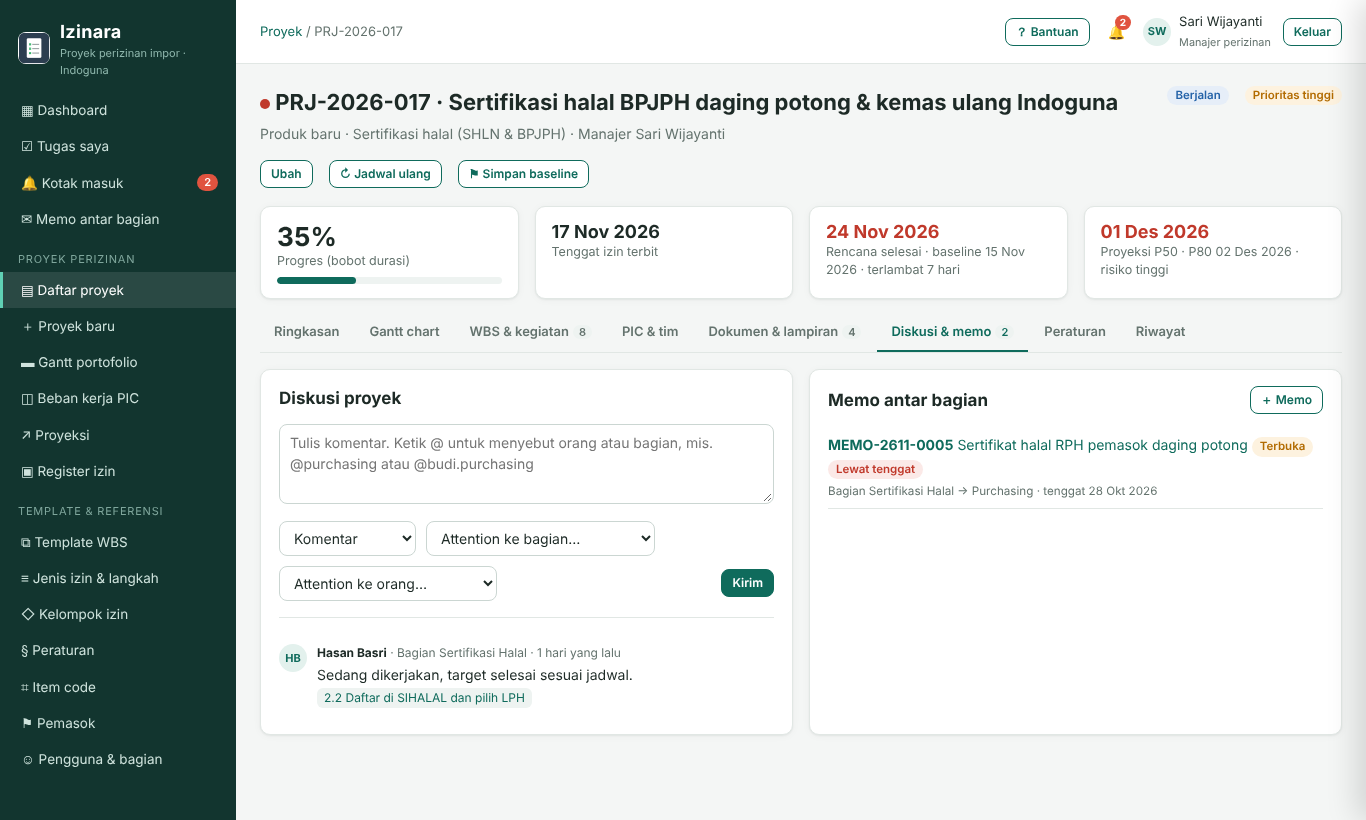
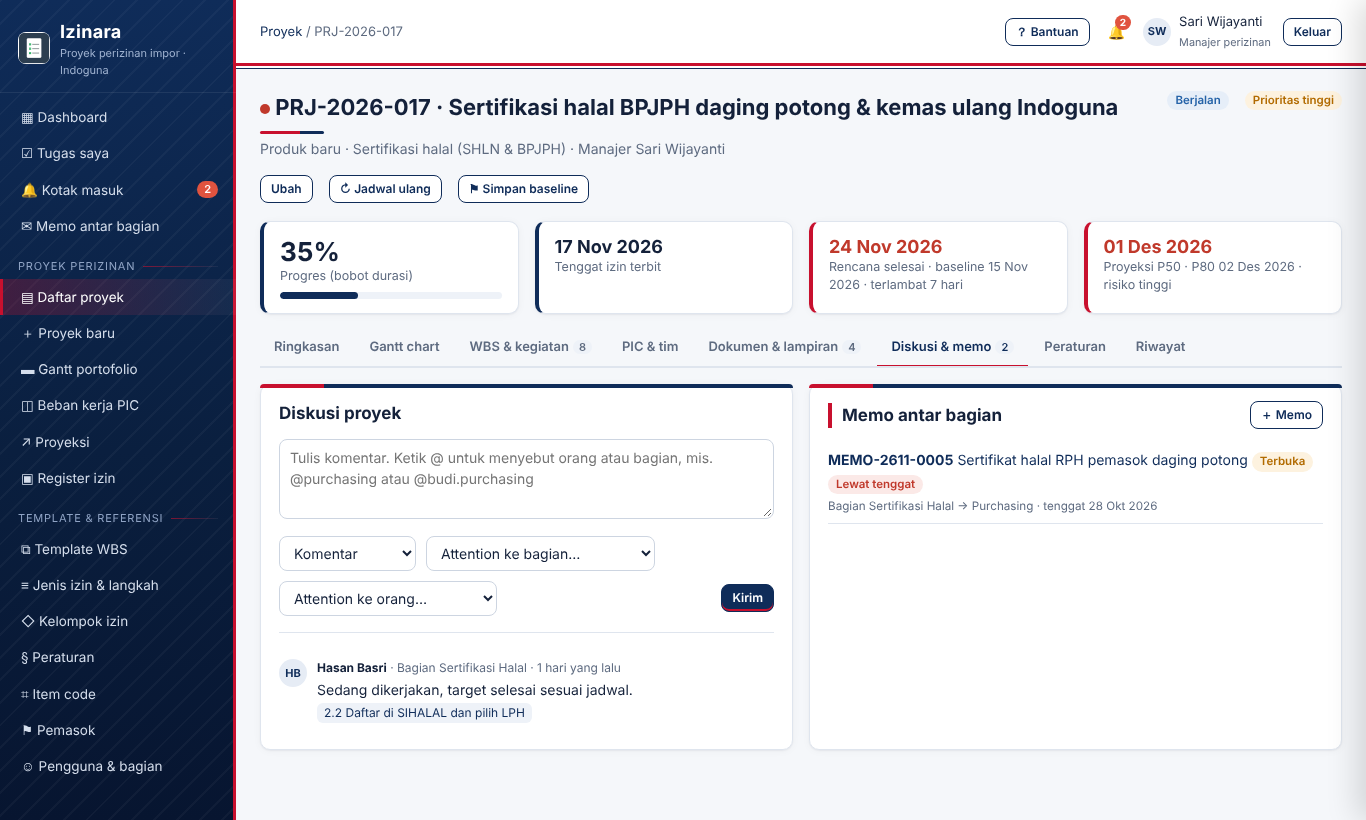
Tema warna Indoguna: biru tua dan merah dengan aksen garis
Sidebar dan header bergaris diagonal, garis bertumpuk merah-putih-navy,
kartu dan judul beraksen merah, login/landing dengan pita merah diagonal,
warna grafik dan Gantt disesuaikan, tangkapan layar Bantuan diperbarui.

Claude-Session: https://claude.ai/code/session_01B7oP2D8Vt9nwedVL3RfTSi

diff --git a/public/css/izinara.css b/public/css/izinara.css
@@ -1,10 +1,10 @@
 /* Izinara – gaya antarmuka (tanpa build step) */
 :root{
-  --bg:#f4f6f5; --panel:#fff; --ink:#1d2a26; --muted:#64736e; --line:#e1e7e4; --soft:#eef3f1;
-  --brand:#0f6b5c; --brand-2:#0b5247; --brand-soft:#e3f1ed; --accent:#d98e04;
+  --bg:#f5f7fa; --panel:#fff; --ink:#14213a; --muted:#5e6b80; --line:#dfe5ee; --soft:#eef2f8;
+  --brand:#0f2c59; --brand-2:#0a1f3f; --brand-soft:#e6ecf5; --accent:#c8102e;
   --ok:#1f8a4c; --ok-soft:#e5f5ec; --info:#2563a8; --info-soft:#e6eef8; --warn:#b26b00; --warn-soft:#fdf2df;
-  --bad:#c0392b; --bad-soft:#fbe9e7; --crit:#c0392b; --side:#12352f; --side-ink:#cfe3dd;
-  --radius:10px; --shadow:0 1px 2px rgba(16,40,34,.06),0 1px 8px rgba(16,40,34,.04);
+  --bad:#c0392b; --bad-soft:#fbe9e7; --crit:#c0392b; --side:#0a1f3f; --side-ink:#d5deec;
+  --radius:10px; --shadow:0 1px 2px rgba(10,25,55,.06),0 1px 8px rgba(10,25,55,.04);
 }
 *{box-sizing:border-box}
 html,body{margin:0;padding:0}
@@ -23,11 +23,11 @@ hr{border:0;border-top:1px solid var(--line);margin:16px 0}
 .side{width:236px;background:var(--side);color:var(--side-ink);flex-shrink:0;position:sticky;top:0;height:100vh;overflow-y:auto;padding-bottom:20px}
 .side .brand{display:flex;align-items:center;gap:10px;padding:18px 18px 14px;color:#fff;font-weight:700;font-size:18px;letter-spacing:.3px}
 .side .brand img{width:32px;height:32px;border-radius:8px;background:#fff}
-.side .brand small{display:block;color:#8fb7ad;font-weight:400;font-size:11px;letter-spacing:0}
+.side .brand small{display:block;color:#9fb2d0;font-weight:400;font-size:11px;letter-spacing:0}
 .side nav a{display:flex;align-items:center;gap:10px;padding:8px 18px;color:var(--side-ink);font-size:13.5px;border-left:3px solid transparent}
 .side nav a:hover{background:rgba(255,255,255,.06);text-decoration:none}
-.side nav a.on{background:rgba(255,255,255,.1);color:#fff;border-left-color:#5fd0b4}
-.side nav .grp{padding:14px 18px 4px;color:#7fa69c;font-size:11px;text-transform:uppercase;letter-spacing:.8px}
+.side nav a.on{background:rgba(255,255,255,.1);color:#fff;border-left-color:#c8102e}
+.side nav .grp{padding:14px 18px 4px;color:#8fa3c4;font-size:11px;text-transform:uppercase;letter-spacing:.8px}
 .side nav .cnt{margin-left:auto;background:#e0533f;color:#fff;border-radius:10px;padding:0 7px;font-size:11px;font-weight:600}
 .main{flex:1;min-width:0}
 .top{display:flex;align-items:center;gap:12px;padding:12px 24px;background:var(--panel);border-bottom:1px solid var(--line);position:sticky;top:0;z-index:20}
@@ -67,9 +67,9 @@ hr{border:0;border-top:1px solid var(--line);margin:16px 0}
 .tbl{width:100%;border-collapse:collapse;font-size:13px}
 .tbl th{text-align:left;font-weight:600;color:var(--muted);font-size:12px;text-transform:uppercase;letter-spacing:.3px;padding:8px 10px;border-bottom:1px solid var(--line);white-space:nowrap;background:#fafcfb}
 .tbl td{padding:8px 10px;border-bottom:1px solid var(--line);vertical-align:top}
-.tbl tr:hover td{background:#fafdfc}
+.tbl tr:hover td{background:#fafbfd}
 .tbl .num{text-align:right;font-variant-numeric:tabular-nums}
-.tbl tr.pkg td{background:#f3f8f6;font-weight:600}
+.tbl tr.pkg td{background:#f3f6fb;font-weight:600}
 .tbl tr.ms td{background:#fffaf0}
 .tbl tr.crit td:first-child{box-shadow:inset 3px 0 0 var(--crit)}
 .scroll-x{overflow-x:auto}
@@ -91,12 +91,12 @@ hr{border:0;border-top:1px solid var(--line);margin:16px 0}
 .bar.bad>i{background:var(--bad)} .bar.warn>i{background:#e5a50a}
 
 /* forms */
-label{display:block;font-weight:600;font-size:12.5px;margin:0 0 4px;color:#33443f}
+label{display:block;font-weight:600;font-size:12.5px;margin:0 0 4px;color:#2e3a52}
 .field{margin-bottom:12px}
 input[type=text],input[type=email],input[type=password],input[type=date],input[type=number],input[type=search],input[type=url],select,textarea{
-  width:100%;padding:7px 10px;border:1px solid #cbd6d2;border-radius:8px;font:inherit;background:#fff;color:var(--ink)}
+  width:100%;padding:7px 10px;border:1px solid #cdd5e1;border-radius:8px;font:inherit;background:#fff;color:var(--ink)}
 textarea{min-height:80px;resize:vertical}
-input:focus,select:focus,textarea:focus{outline:2px solid #9fd8c9;border-color:var(--brand)}
+input:focus,select:focus,textarea:focus{outline:2px solid #b8c6e0;border-color:var(--brand)}
 select[multiple]{min-height:110px}
 .btn{display:inline-flex;align-items:center;gap:6px;padding:7px 14px;border-radius:8px;border:1px solid var(--brand);background:var(--brand);color:#fff;font:inherit;font-weight:600;font-size:13px;cursor:pointer;white-space:nowrap}
 .btn:hover{background:var(--brand-2);text-decoration:none}
@@ -146,11 +146,11 @@ select[multiple]{min-height:110px}
 .files{display:flex;flex-direction:column;gap:6px}
 .file{display:flex;align-items:center;gap:10px;padding:7px 10px;border:1px solid var(--line);border-radius:8px;background:#fff}
 .file .ic{width:38px;height:38px;border-radius:7px;display:flex;align-items:center;justify-content:center;font-size:10.5px;font-weight:800;color:#fff;flex-shrink:0}
-.ic.PDF{background:#d6453d}.ic.XLS{background:#1f7a44}.ic.DOC{background:#2b5fb4}.ic.IMG{background:#8a5cc7}.ic.ZIP{background:#7b6a4b}.ic.PPT{background:#d0632b}.ic.FILE,.ic.MSG,.ic.EML,.ic.XML{background:#6b7b77}
+.ic.PDF{background:#d6453d}.ic.XLS{background:#1f7a44}.ic.DOC{background:#2b5fb4}.ic.IMG{background:#8a5cc7}.ic.ZIP{background:#7b6a4b}.ic.PPT{background:#d0632b}.ic.FILE,.ic.MSG,.ic.EML,.ic.XML{background:#66738a}
 .file img.thumb{width:38px;height:38px;object-fit:cover;border-radius:7px}
 .file .nm{flex:1;min-width:0}
 .file .nm a{font-weight:600;word-break:break-all}
-.drop{border:2px dashed #b9cbc5;border-radius:10px;padding:14px;text-align:center;color:var(--muted);background:#fafdfc}
+.drop{border:2px dashed #bcc8da;border-radius:10px;padding:14px;text-align:center;color:var(--muted);background:#fafbfd}
 .drop.over{border-color:var(--brand);background:var(--brand-soft)}
 
 /* documents */
@@ -164,11 +164,11 @@ select[multiple]{min-height:110px}
 .gantt-toolbar{display:flex;gap:6px;align-items:center;margin-bottom:10px;flex-wrap:wrap}
 .legend{display:flex;gap:14px;font-size:12px;color:var(--muted);flex-wrap:wrap}
 .legend i{display:inline-block;width:14px;height:10px;border-radius:3px;margin-right:4px;vertical-align:middle}
-.gantt .bar-wrapper .bar{fill:#9ab9b0}
+.gantt .bar-wrapper .bar{fill:#9fb4d6}
 .gantt .bar-wrapper .bar-progress{fill:var(--brand)}
-.gantt .bar-wrapper.k-package .bar{fill:#41545e}
-.gantt .bar-wrapper.k-package .bar-progress{fill:#1b2a31}
-.gantt .bar-wrapper.k-project .bar{fill:#7aa69a}
+.gantt .bar-wrapper.k-package .bar{fill:#4a5a78}
+.gantt .bar-wrapper.k-package .bar-progress{fill:#0a1f3f}
+.gantt .bar-wrapper.k-project .bar{fill:#8ea3c7}
 .gantt .bar-wrapper.k-project .bar-progress{fill:var(--brand)}
 .gantt .bar-wrapper.k-project.h-merah .bar{fill:#e8a39b}
 .gantt .bar-wrapper.k-project.h-merah .bar-progress{fill:var(--bad)}
@@ -176,22 +176,22 @@ select[multiple]{min-height:110px}
 .gantt .bar-wrapper.k-project.h-kuning .bar-progress{fill:#c88a00}
 .gantt .bar-wrapper.kritis .bar{fill:#f0b3ab}
 .gantt .bar-wrapper.kritis .bar-progress{fill:var(--crit)}
-.gantt .bar-wrapper.s-selesai .bar{fill:#9bd0b1}
-.gantt .bar-wrapper.s-selesai .bar-progress{fill:var(--ok)}
+.gantt .bar-wrapper.s-selesai .bar{fill:#9fb4d6}
+.gantt .bar-wrapper.s-selesai .bar-progress{fill:#6f88b3}
 .gantt .bar-wrapper.s-terhambat .bar{stroke:var(--bad);stroke-width:2}
 .gantt .bar-wrapper.lewat .bar{stroke:#e5a50a;stroke-width:2;stroke-dasharray:4 2}
 .gantt .bar-wrapper.k-milestone .bar{fill:var(--accent);rx:2}
-.gantt .bar-wrapper.k-milestone .bar-progress{fill:#9c6500}
-.gantt .bar-wrapper.k-milestone.s-selesai .bar{fill:var(--ok)}
+.gantt .bar-wrapper.k-milestone .bar-progress{fill:#8a0b1f}
+.gantt .bar-wrapper.k-milestone.s-selesai .bar{fill:var(--navy)}
 .gantt .bar-label{font-size:11.5px}
 .gantt .today-highlight{fill:#fff3d6;opacity:.8}
 .gantt-container .popup-wrapper{min-width:260px}
-.gp{padding:10px 12px;font-size:12.5px;line-height:1.5;color:#1d2a26;background:#fff;border-radius:8px;box-shadow:0 6px 20px rgba(0,0,0,.18)}
+.gp{padding:10px 12px;font-size:12.5px;line-height:1.5;color:#14213a;background:#fff;border-radius:8px;box-shadow:0 6px 20px rgba(0,0,0,.18)}
 .gp b{display:block;font-size:13px;margin-bottom:3px}
 
 /* heatmap */
 .heat td.h{text-align:center;font-variant-numeric:tabular-nums;font-size:12px;border-left:1px solid #fff}
-.h0{background:#f5f7f6;color:#aab}.h1{background:#d8f0e4}.h2{background:#a9dfc2}.h3{background:#ffe3a3}.h4{background:#ffbf85}.h5{background:#f28b7d;color:#fff}
+.h0{background:#f5f7fa;color:#aab}.h1{background:#d8f0e4}.h2{background:#a9dfc2}.h3{background:#ffe3a3}.h4{background:#ffbf85}.h5{background:#f28b7d;color:#fff}
 
 .empty{padding:28px;text-align:center;color:var(--muted)}
 .chart-box{position:relative;height:260px}
@@ -205,7 +205,7 @@ details.box>summary::-webkit-details-marker{display:none}
 details.box>summary:before{content:"▸ ";color:var(--muted)}
 details.box[open]>summary:before{content:"▾ "}
 details.box>div{padding:0 14px 12px}
-.login-wrap{min-height:100vh;display:flex;align-items:center;justify-content:center;background:linear-gradient(135deg,#0f6b5c 0%,#12352f 60%,#0b2622 100%);padding:20px}
+.login-wrap{min-height:100vh;display:flex;align-items:center;justify-content:center;background:linear-gradient(135deg,#0f2c59 0%,#0a1f3f 60%,#071530 100%);padding:20px}
 .login{background:#fff;border-radius:14px;padding:30px 32px;width:100%;max-width:400px;box-shadow:0 20px 60px rgba(0,0,0,.35)}
 .login .brand{display:flex;gap:12px;align-items:center;margin-bottom:18px}
 .login .brand img{width:46px;height:46px;border-radius:10px}
@@ -224,7 +224,7 @@ details.box>div{padding:0 14px 12px}
 .help-btn{font-weight:600}
 .side a.brand{text-decoration:none}
 .help-panel{position:fixed;inset:0;z-index:60;pointer-events:none}
-.help-panel .help-backdrop{position:absolute;inset:0;background:rgba(10,30,26,.35);opacity:0;transition:opacity .2s}
+.help-panel .help-backdrop{position:absolute;inset:0;background:rgba(7,21,48,.35);opacity:0;transition:opacity .2s}
 .help-panel .help-sheet{position:absolute;top:0;right:0;bottom:0;width:min(560px,100%);background:var(--panel);box-shadow:-8px 0 30px rgba(0,0,0,.15);transform:translateX(100%);transition:transform .22s ease;display:flex;flex-direction:column}
 .help-panel.open{pointer-events:auto}
 .help-panel.open .help-backdrop{opacity:1}
@@ -263,17 +263,17 @@ body.pub{background:#fff}
 .pub-top nav{display:flex;gap:16px}.pub-top nav a{color:var(--ink);font-size:14px}
 .pub-wrap{max-width:1180px;margin:0 auto;padding:0 24px}
 body.pub .pub-wrap .page-head{margin-top:24px}
-.hero{background:linear-gradient(135deg,#0f6b5c 0%,#12352f 70%);color:#e9f5f1;padding:56px 24px 64px}
+.hero{background:linear-gradient(135deg,#0f2c59 0%,#0a1f3f 70%);color:#e8eef7;padding:56px 24px 64px}
 .hero-in{max-width:1180px;margin:0 auto;display:grid;grid-template-columns:minmax(0,1fr) minmax(0,1.1fr);gap:40px;align-items:center}
 .hero h1{font-size:36px;line-height:1.2;color:#fff;margin:10px 0 14px}
-.hero p{font-size:16px;color:#cfe3dd}
-.eyebrow{display:inline-block;background:rgba(255,255,255,.12);color:#9fe0cc;border-radius:999px;padding:3px 12px;font-size:12px;font-weight:600;letter-spacing:.4px;text-transform:uppercase}
+.hero p{font-size:16px;color:#d5deec}
+.eyebrow{display:inline-block;background:rgba(255,255,255,.12);color:#ffd2d9;border-radius:999px;padding:3px 12px;font-size:12px;font-weight:600;letter-spacing:.4px;text-transform:uppercase}
 .hero-cta{display:flex;gap:10px;flex-wrap:wrap;margin:22px 0}
 .btn.lg{padding:11px 20px;font-size:15px}
 .hero .btn{background:#fff;color:var(--brand);border-color:#fff}
 .hero .btn.ghost{background:transparent;color:#fff;border-color:rgba(255,255,255,.6)}
 .hero-stats{display:flex;gap:28px;flex-wrap:wrap}
-.hero-stats b{display:block;font-size:26px;color:#fff}.hero-stats span{font-size:12px;color:#9fc7bc}
+.hero-stats b{display:block;font-size:26px;color:#fff}.hero-stats span{font-size:12px;color:#a9bad6}
 .hero-img img{width:100%;border-radius:10px;box-shadow:0 20px 50px rgba(0,0,0,.35);display:block}
 .pub-sec{padding:56px 0}
 .pub-sec.alt{background:var(--bg)}
@@ -291,7 +291,7 @@ body.pub .pub-wrap .page-head{margin-top:24px}
 .feat-row{display:grid;grid-template-columns:minmax(0,.8fr) minmax(0,1.2fr);gap:32px;align-items:center}
 .feat-row:nth-child(even) .feat-txt{order:2}
 .feat-txt h3{font-size:20px;margin:0 0 8px}.feat-txt p{font-size:15px;color:var(--muted);margin:0}
-.feat-img img{width:100%;border:1px solid var(--line);border-radius:10px;box-shadow:0 10px 30px rgba(16,40,34,.12);display:block}
+.feat-img img{width:100%;border:1px solid var(--line);border-radius:10px;box-shadow:0 10px 30px rgba(10,25,55,.12);display:block}
 .reg-explain{margin-bottom:20px}
 .reg-lvl{font-weight:700;color:var(--brand);margin:14px 0 4px;font-size:13px;text-transform:uppercase;letter-spacing:.5px}
 .reg-table .tbl td{vertical-align:top}
@@ -303,3 +303,71 @@ body.pub .pub-wrap .page-head{margin-top:24px}
 .login.install h3{margin:18px 0 6px}
 .checks{list-style:none;padding:0;margin:0;font-size:13px}.checks li{padding:2px 0}.checks .ok{color:var(--ok)}.checks .bad{color:var(--bad)}
 .login .pub-links{text-align:center;margin-top:12px;font-size:13px}
+
+/* =====================================================================
+   Tema Indoguna: biru tua (navy) + merah, dengan aksen garis
+   ===================================================================== */
+:root{
+  --navy:#0f2c59; --navy-2:#0a1f3f; --navy-3:#071530; --red:#c8102e;
+  --stripes:repeating-linear-gradient(135deg,rgba(255,255,255,.035) 0 2px,transparent 2px 16px);
+  --tri:linear-gradient(90deg,var(--red) 0 56px,#fff 56px 60px,var(--navy) 60px);
+}
+/* sidebar: navy bergaris diagonal + garis merah di tepi kanan */
+.side{background:var(--stripes),linear-gradient(180deg,var(--navy) 0%,var(--navy-2) 55%,var(--navy-3) 100%);box-shadow:inset -3px 0 0 var(--red)}
+.side .brand{border-bottom:1px solid rgba(255,255,255,.08);margin-bottom:6px}
+.side nav a.on{background:linear-gradient(90deg,rgba(200,16,46,.28),rgba(255,255,255,.04));border-left-color:var(--red)}
+.side nav .grp{display:flex;align-items:center;gap:8px}
+.side nav .grp::after{content:"";flex:1;height:1px;background:linear-gradient(90deg,rgba(200,16,46,.6),rgba(255,255,255,.05))}
+/* header atas: garis bertumpuk merah – putih – navy */
+.top{border-bottom:0;box-shadow:0 3px 0 var(--red),0 5px 0 #fff,0 6px 0 var(--navy)}
+.content{padding-top:28px}
+/* judul halaman dengan garis dua warna */
+.page-head h1::after{content:"";display:block;width:64px;height:3px;margin-top:7px;background:linear-gradient(90deg,var(--red) 0 62%,var(--navy) 62%);border-radius:2px}
+/* kartu: garis atas merah → navy */
+.card,.kpi{position:relative}
+.card::before{content:"";position:absolute;top:-1px;left:-1px;right:-1px;height:4px;background:linear-gradient(90deg,var(--red) 0 64px,var(--navy) 64px);border-radius:var(--radius) var(--radius) 0 0}
+.card.flush>.card-h{padding-top:16px}
+.card-h h2{border-left:4px solid var(--red);padding-left:10px}
+.kpi{border-left:4px solid var(--navy)}
+.kpi.bad{border-left-color:var(--red)} .kpi.warn{border-left-color:#d98e04} .kpi.ok{border-left-color:var(--ok)}
+/* tab aktif bergaris merah */
+.tabs{border-bottom:2px solid var(--line)}
+.tabs a{border-bottom-width:3px;margin-bottom:-2px}
+.tabs a.on{color:var(--navy);border-bottom-color:var(--red)}
+/* tombol utama navy dengan garis bawah merah */
+.btn:not(.ghost){box-shadow:inset 0 -2px 0 var(--red)}
+.btn:not(.ghost):hover{background:var(--navy-2)}
+.tbl thead th{border-bottom:2px solid var(--navy)}
+/* login & wizard instalasi: latar navy bergaris dengan pita merah */
+.login-wrap{background:
+  linear-gradient(115deg,transparent 0 60%,var(--red) 60% 62.5%,transparent 62.5% 63.6%,rgba(255,255,255,.55) 63.6% 64%,transparent 64%),
+  var(--stripes),linear-gradient(160deg,var(--navy-3) 0%,var(--navy-2) 45%,var(--navy) 100%)}
+.login{position:relative;border-radius:6px}
+.login::before{content:"";position:absolute;top:0;left:0;right:0;height:5px;background:var(--tri);border-radius:6px 6px 0 0}
+.login .brand b{color:var(--navy)}
+.login .brand::after{content:"";display:block}
+/* panel bantuan */
+.help-sheet-h{background:var(--stripes),linear-gradient(90deg,var(--navy),var(--navy-2));color:#fff;box-shadow:0 3px 0 var(--red)}
+.help-sheet-h .btn.ghost{background:transparent;color:#fff;border-color:rgba(255,255,255,.5)}
+.help-lead{border-left-color:var(--red)}
+.help-topic h4{color:var(--navy)}
+.help-toc a.on{border-left-color:var(--red)}
+/* halaman publik */
+.pub-top{border-bottom:0;box-shadow:0 3px 0 var(--red),0 5px 0 #fff,0 6px 0 var(--navy)}
+.pub-brand{color:var(--navy)}
+.hero{background:
+  linear-gradient(115deg,transparent 0 72%,var(--red) 72% 73.6%,transparent 73.6% 74.4%,rgba(255,255,255,.4) 74.4% 74.7%,transparent 74.7%),
+  var(--stripes),linear-gradient(135deg,var(--navy) 0%,var(--navy-2) 60%,var(--navy-3) 100%)}
+.hero .btn{box-shadow:inset 0 -2px 0 var(--red)}
+.eyebrow{background:rgba(200,16,46,.22);color:#ffd2d9}
+.sec-h::after{content:"";display:block;width:64px;height:3px;margin-top:8px;background:linear-gradient(90deg,var(--red) 0 62%,var(--navy) 62%);border-radius:2px}
+.feat{border-top:3px solid var(--navy)}
+.feat .ic{background:var(--brand-soft);color:var(--navy);box-shadow:inset 0 -2px 0 var(--red)}
+.flow li::before{background:var(--navy);box-shadow:0 0 0 2px #fff,0 0 0 4px var(--red)}
+.reg-lvl{color:var(--navy);border-bottom:2px solid var(--red);display:inline-block;padding-bottom:2px}
+.pub-foot{border-top:0;box-shadow:0 -3px 0 var(--red),0 -5px 0 #fff,0 -6px 0 var(--navy);background:var(--navy-2);color:#c8d3e6}
+.pub-foot a{color:#fff}
+.pub-sec.alt{background:linear-gradient(180deg,rgba(15,44,89,.03),rgba(15,44,89,.03)),repeating-linear-gradient(135deg,rgba(15,44,89,.025) 0 2px,transparent 2px 18px),var(--bg)}
+@media print{.card::before{display:none}}
+.login .org{text-align:center;font-weight:700;letter-spacing:2px;color:var(--navy);font-size:13px;margin:4px 0 16px}
+.login .org::after{content:"";display:block;width:48px;height:3px;margin:6px auto 0;background:linear-gradient(90deg,var(--red) 0 62%,var(--navy) 62%)}

diff --git a/public/js/izinara.js b/public/js/izinara.js
@@ -104,11 +104,11 @@
     const el = document.getElementById(id);
     if (!el || !window.Chart) return;
     Chart.defaults.font.family = '"Inter","Segoe UI",system-ui,sans-serif';
-    Chart.defaults.color = '#64736e';
+    Chart.defaults.color = '#5e6b80';
     cfg.options = Object.assign({responsive: true, maintainAspectRatio: false, plugins: {legend: {position: 'bottom', labels: {boxWidth: 12}}}}, cfg.options || {});
     return new Chart(el, cfg);
   };
-  IZ.colors = ['#0f6b5c', '#d98e04', '#2563a8', '#c0392b', '#7b5cc7', '#1f8a4c', '#8a6d3b', '#4e6e7a'];
+  IZ.colors = ['#0f2c59', '#c8102e', '#3d7cc9', '#d98e04', '#7b5cc7', '#1f8a4c', '#8a6d3b', '#4e6e7a'];
 
   /* ---------- konfirmasi ---------- */
   document.addEventListener('submit', e => {

diff --git a/resources/views/projects/show.blade.php b/resources/views/projects/show.blade.php
@@ -101,7 +101,7 @@
     <button class="btn sm" data-gantt-mode="Week">Minggu</button>
     <button class="btn sm ghost" data-gantt-mode="Month">Bulan</button>
     <div class="sp" style="flex:1"></div>
-    <div class="legend"><span><i style="background:#41545e"></i>Paket izin</span><span><i style="background:var(--brand)"></i>Kegiatan</span><span><i style="background:#f0b3ab"></i>Jalur kritis</span><span><i style="background:#9bd0b1"></i>Selesai</span><span><i style="background:var(--accent)"></i>Milestone</span><span><i style="border:2px dashed #e5a50a;background:#fff"></i>Lewat jadwal</span></div>
+    <div class="legend"><span><i style="background:#4a5a78"></i>Paket izin</span><span><i style="background:var(--brand)"></i>Kegiatan</span><span><i style="background:#f0b3ab"></i>Jalur kritis</span><span><i style="background:#6f88b3"></i>Selesai</span><span><i style="background:var(--accent)"></i>Milestone</span><span><i style="border:2px dashed #e5a50a;background:#fff"></i>Lewat jadwal</span></div>
   </div>
   <div class="gantt-wrap"><div id="gantt"></div></div>
   <p class="help">Klik batang untuk membuka kegiatan. {{ $isMgr ? 'Seret batang untuk menggeser jadwal; kegiatan sesudahnya ikut bergeser mengikuti dependensi.' : 'Hanya manajer yang dapat menggeser jadwal.' }} Garis panah = dependensi (selesai → mulai).</p>

diff --git a/resources/views/auth/login.blade.php b/resources/views/auth/login.blade.php
@@ -1,12 +1,13 @@
 <!doctype html>
 <html lang="id">
 <head><meta charset="utf-8"><meta name="viewport" content="width=device-width, initial-scale=1"><title>Masuk · Izinara</title>
-<link rel="icon" href="{{ asset('favicon.png') }}"><link rel="stylesheet" href="{{ asset('css/izinara.css') }}?v=2"></head>
+<link rel="icon" href="{{ asset('favicon.png') }}"><link rel="stylesheet" href="{{ asset('css/izinara.css') }}?v=3"></head>
 <body>
 <div class="login-wrap">
   <form class="login" method="post" action="{{ url('/login') }}">
     @csrf
     <div class="brand"><img src="{{ asset('img/izinara.png') }}" alt=""><div><b>Izinara</b><small class="muted">Manajemen proyek perizinan impor pangan</small></div></div>
+    <div class="org">PT INDOGUNA UTAMA</div>
     @if(session('ok'))<div class="alert ok">{{ session('ok') }}</div>@endif
     @if($errors->any())<div class="alert bad">{{ $errors->first() }}</div>@endif
     <div class="field"><label>Nama pengguna atau email</label><input type="text" name="login" value="{{ old('login') }}" required autofocus></div>

diff --git a/resources/views/dashboard.blade.php b/resources/views/dashboard.blade.php
@@ -97,8 +97,8 @@
 @push('scripts')
 <script>
 IZ.chart('cGroup', {type: 'bar', data: {labels: @json($byGroup->pluck('label')->values()), datasets: [
-  {label: 'Aktif', data: @json($byGroup->pluck('open')->values()), backgroundColor: '#0f6b5c'},
-  {label: 'Selesai', data: @json($byGroup->pluck('done')->values()), backgroundColor: '#9bd0b1'}]},
+  {label: 'Aktif', data: @json($byGroup->pluck('open')->values()), backgroundColor: '#0f2c59'},
+  {label: 'Selesai', data: @json($byGroup->pluck('done')->values()), backgroundColor: '#9fb4d6'}]},
   options: {scales: {x: {stacked: true}, y: {stacked: true, ticks: {precision: 0}}}}});
 IZ.chart('cParty', {type: 'bar', data: {labels: @json($byParty->pluck('label')), datasets: [
   {label: 'Terbuka', data: @json($byParty->pluck('open')), backgroundColor: '#2563a8'},

diff --git a/resources/views/layouts/app.blade.php b/resources/views/layouts/app.blade.php
@@ -7,7 +7,7 @@
 <title>@yield('title', 'Izinara') · Izinara</title>
 <link rel="icon" href="{{ asset('favicon.png') }}">
 <link rel="stylesheet" href="{{ asset('vendor/frappe-gantt.min.css') }}">
-<link rel="stylesheet" href="{{ asset('css/izinara.css') }}?v=2">
+<link rel="stylesheet" href="{{ asset('css/izinara.css') }}?v=3">
 @stack('head')
 </head>
 <body>
@@ -65,7 +65,7 @@
 <script>window.IZ={csrf:document.querySelector('meta[name=csrf-token]').content,mentionUrl:null,people:{!! json_encode($izPeople) !!}};</script>
 <script src="{{ asset('vendor/chart.umd.js') }}"></script>
 <script src="{{ asset('vendor/frappe-gantt.min.js') }}"></script>
-<script src="{{ asset('js/izinara.js') }}?v=2"></script>
+<script src="{{ asset('js/izinara.js') }}?v=3"></script>
 @stack('scripts')
 </body>
 </html>

diff --git a/resources/views/forecast.blade.php b/resources/views/forecast.blade.php
@@ -47,7 +47,7 @@
 @endsection
 @push('scripts')<script>
 IZ.chart('cMonth', {type: 'bar', data: {labels: @json($monthly['labels']), datasets: [
-  {label: 'Izin terbit (proyeksi)', data: @json($monthly['issued']), backgroundColor: '#0f6b5c'},
+  {label: 'Izin terbit (proyeksi)', data: @json($monthly['issued']), backgroundColor: '#0f2c59'},
   {label: 'Izin habis masa berlaku', data: @json($monthly['expiring']), backgroundColor: '#c0392b'},
   {label: 'Mulai perpanjangan', data: @json($monthly['renewalStarts']), backgroundColor: '#d98e04'},
   {label: 'Proyek baru dimulai', data: @json($monthly['newProjects']), type: 'line', borderColor: '#2563a8', backgroundColor: '#2563a8'}]},

diff --git a/resources/views/install/show.blade.php b/resources/views/install/show.blade.php
@@ -1,7 +1,7 @@
 <!doctype html>
 <html lang="id">
 <head><meta charset="utf-8"><meta name="viewport" content="width=device-width, initial-scale=1"><title>Instalasi · Izinara</title>
-<link rel="icon" href="{{ asset('favicon.png') }}"><link rel="stylesheet" href="{{ asset('css/izinara.css') }}?v=2"></head>
+<link rel="icon" href="{{ asset('favicon.png') }}"><link rel="stylesheet" href="{{ asset('css/izinara.css') }}?v=3"></head>
 <body>
 <div class="login-wrap">
   <form class="login install" method="post" action="{{ url('/install') }}">

diff --git a/resources/views/layouts/public.blade.php b/resources/views/layouts/public.blade.php
@@ -7,7 +7,7 @@
 <meta name="description" content="Izinara: aplikasi internal PT Indoguna Utama untuk pengurusan izin impor dan izin edar pangan.">
 <meta name="robots" content="noindex">
 <link rel="icon" href="{{ asset('favicon.png') }}">
-<link rel="stylesheet" href="{{ asset('css/izinara.css') }}?v=2">
+<link rel="stylesheet" href="{{ asset('css/izinara.css') }}?v=3">
 </head>
 <body class="pub">
 <header class="pub-top">
